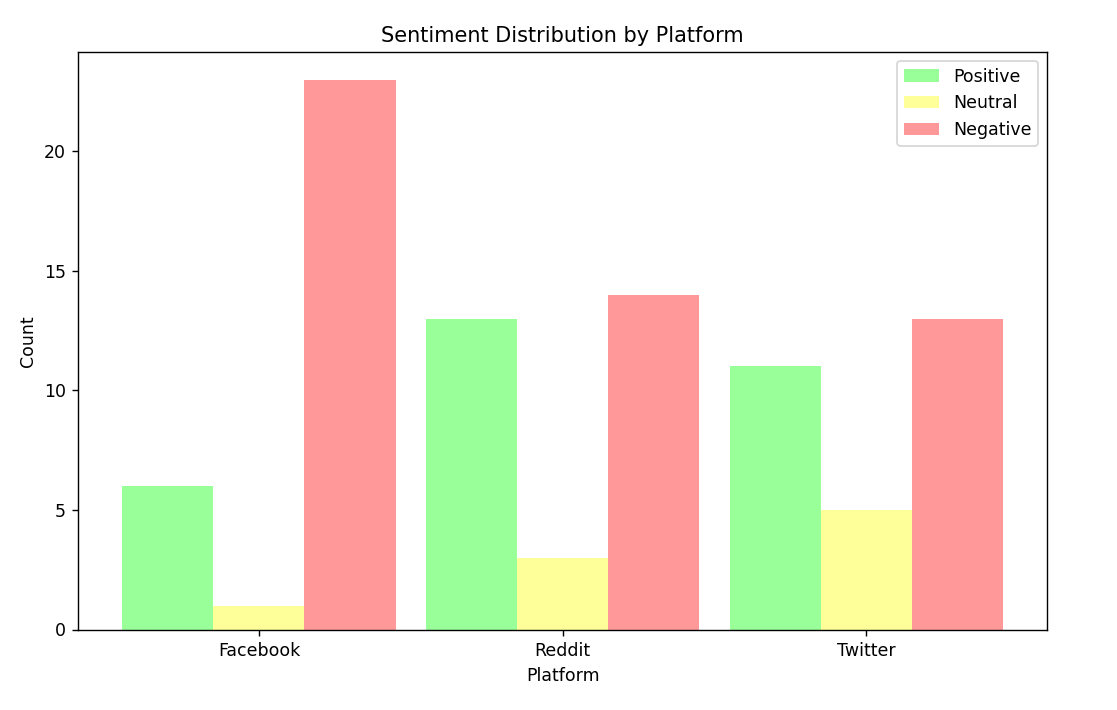
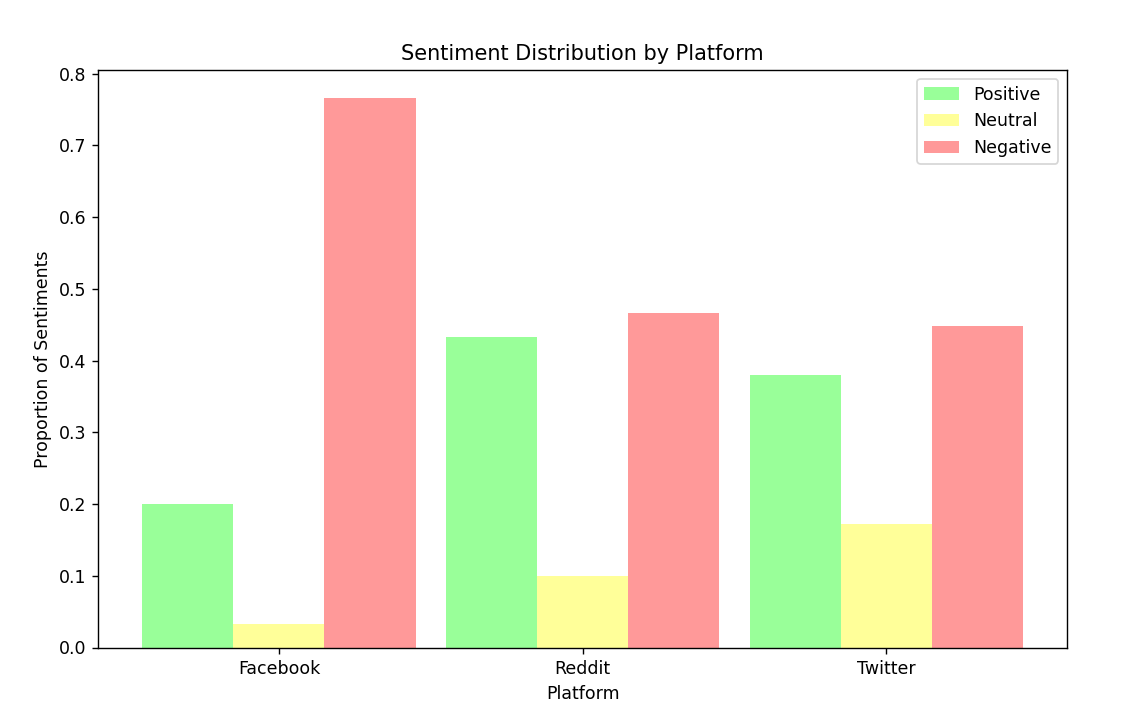
Add files via upload
Bug fix. We were not calculating proportions.

Changed region(s): [[0.0, 0.031, 0.9436, 0.9915], [0.7305, 0.7127, 0.8218, 0.7437]]

diff --git a/new_bar_anim.py b/new_bar_anim.py
@@ -4,7 +4,6 @@ import matplotlib.pyplot as plt
 from matplotlib.animation import FuncAnimation
 from matplotlib.animation import PillowWriter
 
-
 # Simulated data
 np.random.seed(0)
 dates = pd.date_range(start='2024-01-01', periods=10, freq='D')
@@ -14,17 +13,19 @@ platforms = ['Facebook', 'Twitter', 'Reddit']
 negative_trend = np.linspace(0.9, 0.1, len(dates))
 positive_trend = np.linspace(0.1, 0.9, len(dates))
 
-
 df = pd.DataFrame({
     'Date': np.tile(dates, len(platforms)),
     'Platform': np.repeat(platforms, len(dates)),
     'Positive': np.tile(positive_trend, len(platforms)) + np.random.randint(-10, 10, len(dates) * len(platforms))/100,
     'Neutral': np.random.randint(0, 100, len(dates) * len(platforms))/100,
     'Negative': np.tile(negative_trend, len(platforms)) + np.random.randint(-10, 10, len(dates) * len(platforms))/100
-
 })
 
-
+# Calculate the proportions
+df['Total'] = df['Positive'] + df['Neutral'] + df['Negative']
+df['Positive'] /= df['Total']
+df['Neutral'] /= df['Total']
+df['Negative'] /= df['Total']
 
 
 
@@ -43,6 +44,11 @@ for platform in platforms:
     upsampled = platform_df.resample(resample_str).asfreq().interpolate()
     upsampled['Platform'] = platform
     dfs.append(upsampled.reset_index())
+
+
+
+
+
 
 df_interp = pd.concat(dfs, axis=0)
 
@@ -86,7 +92,7 @@ def update(num):
 # Create the animation with adjusted interval
 ani = FuncAnimation(fig, update, frames=len(unique_dates), repeat=False, interval=100)  # 100ms per frame
 
-#plt.show()
+# plt.show()
 
 
 # Save the animation as a GIF

diff --git a/new_bar_charts.py b/new_bar_charts.py
@@ -14,6 +14,12 @@ for sentiment in ['positive', 'neutral', 'negative']:
     if sentiment not in pivot_df.columns:
         pivot_df[sentiment] = 0
 
+# Calculate the proportions
+pivot_df['total'] = pivot_df['positive'] + pivot_df['neutral'] + pivot_df['negative']
+pivot_df['positive'] = pivot_df['positive'] / pivot_df['total']
+pivot_df['neutral'] = pivot_df['neutral'] / pivot_df['total']
+pivot_df['negative'] = pivot_df['negative'] / pivot_df['total']
+
 # Bar width and locations for bar plot
 width = 0.3
 locations = np.array(range(len(pivot_df)))
@@ -33,7 +39,7 @@ ax.bar(locations + width, pivot_df['negative'], width=width, label='Negative', c
 ax.set_xticks(locations)
 ax.set_xticklabels(pivot_df['platform'])
 ax.set_title("Sentiment Distribution by Platform")
-ax.set_ylabel("Count")
+ax.set_ylabel("Proportion of Sentiments")
 ax.set_xlabel("Platform")
 ax.legend()
 

diff --git a/new_trace_anim.py b/new_trace_anim.py
@@ -3,8 +3,6 @@ import numpy as np
 import matplotlib.pyplot as plt
 from matplotlib.animation import FuncAnimation, PillowWriter
 
-
-
 # Simulated data
 np.random.seed(0)
 dates = pd.date_range(start='2024-01-01', periods=10, freq='D')
@@ -21,6 +19,12 @@ df = pd.DataFrame({
     'Neutral': np.random.randint(0, 100, len(dates) * len(platforms)) / 100,
     'Negative': np.tile(negative_trend, len(platforms)) + np.random.randint(-10, 10, len(dates) * len(platforms)) / 100
 })
+
+# Calculate the proportions
+df['Total'] = df['Positive'] + df['Neutral'] + df['Negative']
+df['Positive'] /= df['Total']
+df['Neutral'] /= df['Total']
+df['Negative'] /= df['Total']
 
 
 
